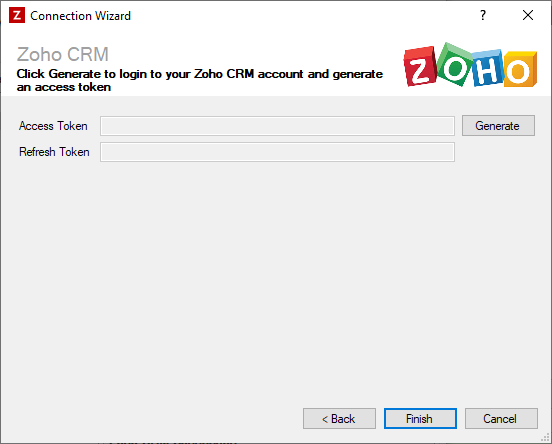
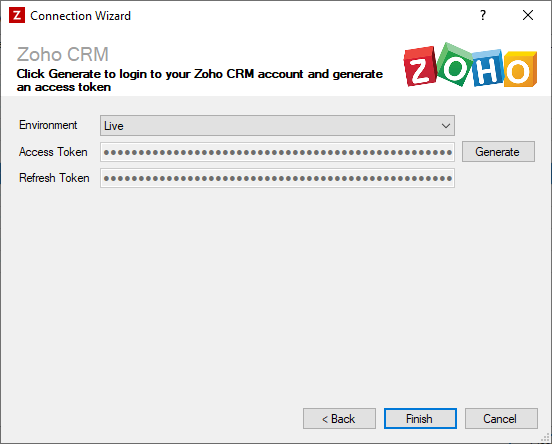
Added new field for Zoho CRM connections

diff --git a/_docs/Zoho-CRM-V2-Connector/Connecting-to-Zoho-CRM-v2.md b/_docs/Zoho-CRM-V2-Connector/Connecting-to-Zoho-CRM-v2.md
@@ -9,6 +9,13 @@ All of the tasks in the Zoho CRM connector require a connection to Zoho CRM, so 
 Enter your Zoho CRM details as described below, then click 'Finish' to create the connection.
 
 ## Settings
+### Environment
+_Required_  
+Select the type of environment you want to create a connection to.
+
+- **Live** - For connections to live instances of Zoho CRM
+- **Sandbox** - For connections to Zoho CRM sandboxes
+
 ### Access Token
 _Required_  
 Click the 'Generate' button to start the process of generating your tokens. This will bring up a new window where you can log in to your Zoho CRM account, and grant Zynk access to your data. Once you have done this, an access and refresh token will be automatically generated.
